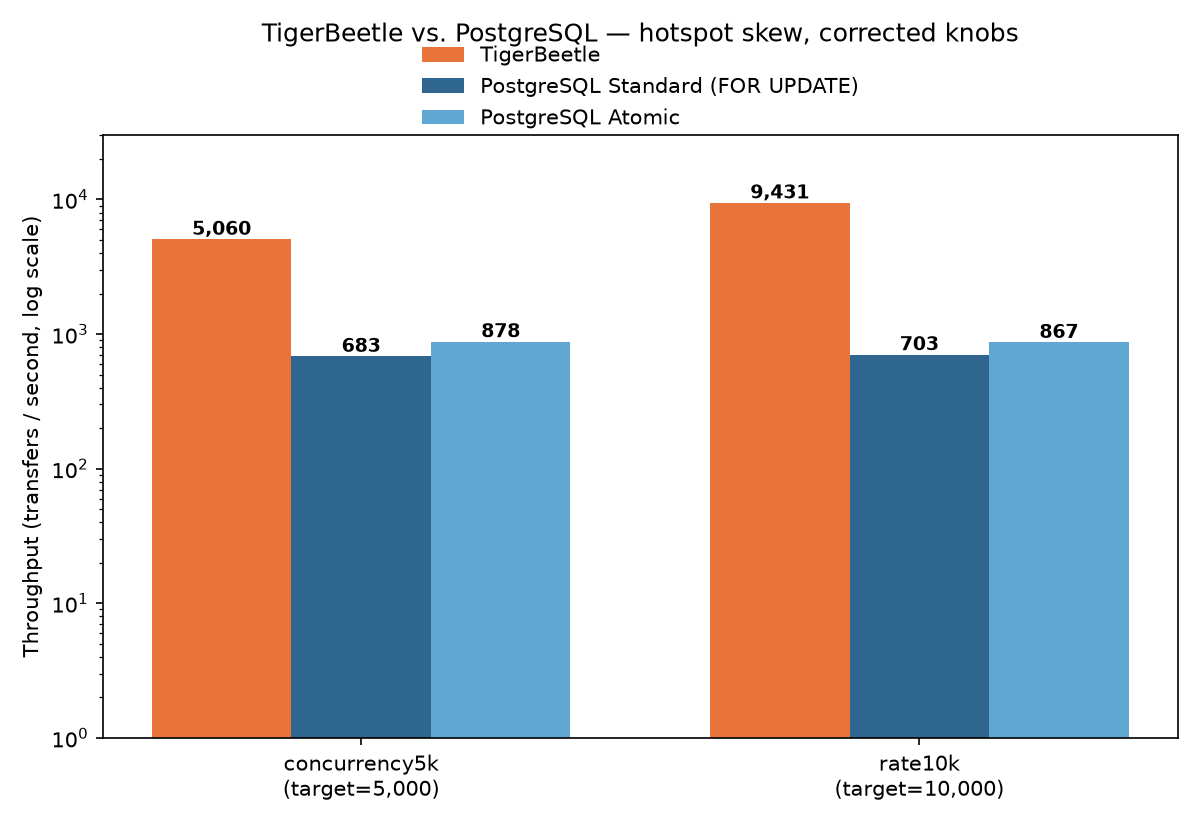
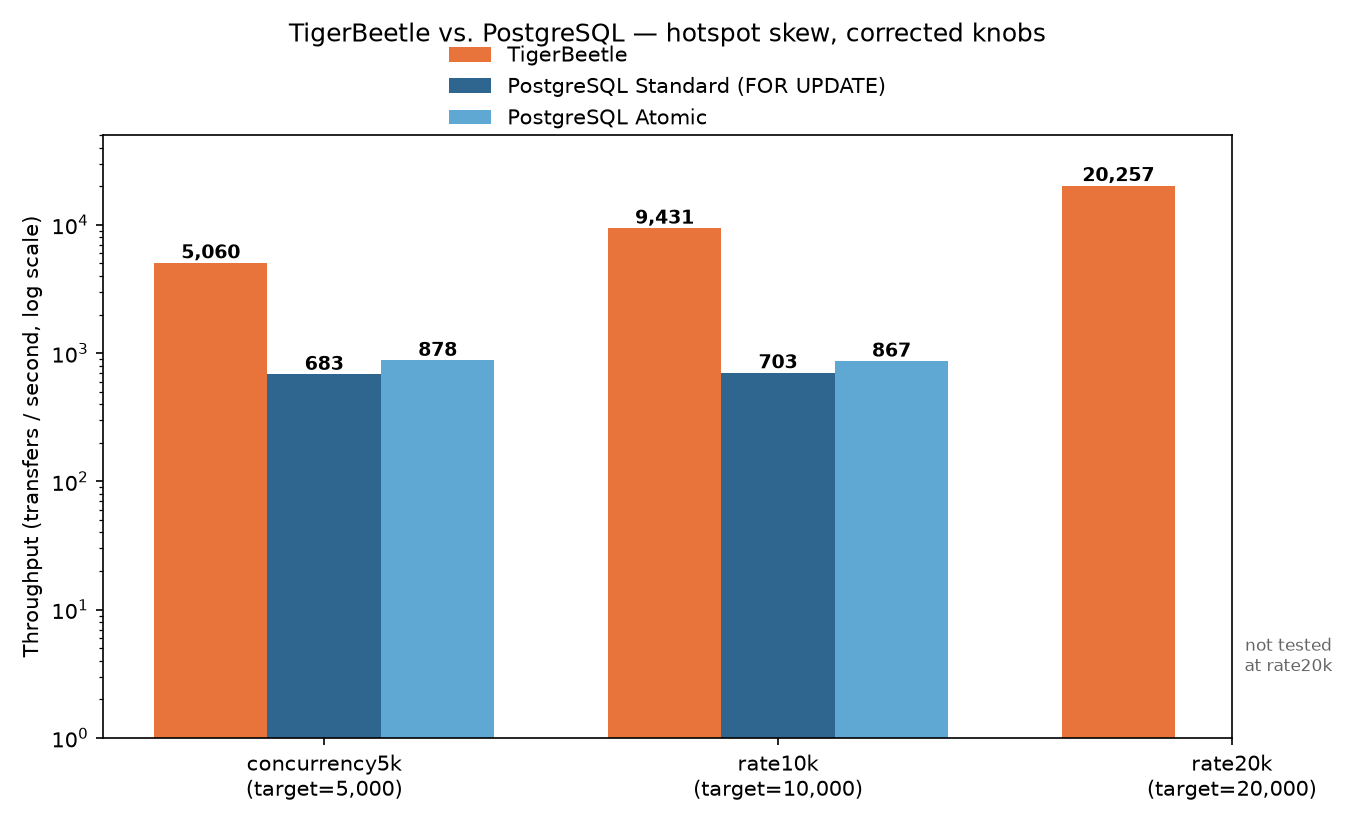
Add rate20k results: TigerBeetle ceiling still not found
Pushes target_rate to 20,000 with max_concurrency raised to 30,000 (real
headroom this time, not just 1:1). Result: 20,257 TPS mean, 0 dropped
transfers, 0% error rate, p99 still sub-second (1,046ms) - TigerBeetle
absorbed essentially the full 2x jump in offered load with zero drops.

Updates hotspot-knob-sweep-results.md with the new test's analysis and raw
results, and article_v2.md to feature rate20k as the headline number
(~23x PostgreSQL's best observed throughput across the whole sweep,
though PostgreSQL wasn't re-tested at this specific rate since rate10k
already showed it doesn't move with target_rate). Regenerated both
corrected-hotspot charts to include the third data point.

diff --git a/article-assets/plot_corrected_hotspot.py b/article-assets/plot_corrected_hotspot.py
@@ -10,18 +10,18 @@ import numpy as np
 OUT_DIR = "article-assets"
 
 # --- Chart 1: throughput, corrected hotspot numbers -------------------------
-groups = ["concurrency5k\n(target=5,000)", "rate10k\n(target=10,000)"]
-tigerbeetle = [5060, 9431]
-pg_standard = [683, 703]
-pg_atomic = [878, 867]
+groups = ["concurrency5k\n(target=5,000)", "rate10k\n(target=10,000)", "rate20k\n(target=20,000)"]
+tigerbeetle = [5060, 9431, 20257]
+pg_standard = [683, 703, None]  # not tested at rate20k
+pg_atomic = [878, 867, None]  # not tested at rate20k
 
 x = np.arange(len(groups))
 width = 0.25
 
-fig, ax = plt.subplots(figsize=(8, 5.5))
+fig, ax = plt.subplots(figsize=(9, 5.5))
 b1 = ax.bar(x - width, tigerbeetle, width, label="TigerBeetle", color="#e8743b")
-b2 = ax.bar(x, pg_standard, width, label="PostgreSQL Standard (FOR UPDATE)", color="#2f6690")
-b3 = ax.bar(x + width, pg_atomic, width, label="PostgreSQL Atomic", color="#5fa8d3")
+b2 = ax.bar(x[:2], pg_standard[:2], width, label="PostgreSQL Standard (FOR UPDATE)", color="#2f6690")
+b3 = ax.bar(x[:2] + width, pg_atomic[:2], width, label="PostgreSQL Atomic", color="#5fa8d3")
 
 ax.set_yscale("log")
 ax.set_ylabel("Throughput (transfers / second, log scale)")
@@ -29,13 +29,16 @@ ax.set_title("TigerBeetle vs. PostgreSQL — hotspot skew, corrected knobs", pad
 ax.set_xticks(x)
 ax.set_xticklabels(groups)
 ax.legend(loc="upper center", bbox_to_anchor=(0.5, 1.18), ncol=1, frameon=False)
-ax.set_ylim(1, 3e4)
+ax.set_ylim(1, 5e4)
 
 for bars in (b1, b2, b3):
     for bar in bars:
         h = bar.get_height()
         ax.annotate(f"{int(h):,}", (bar.get_x() + bar.get_width() / 2, h),
                     ha="center", va="bottom", fontsize=9, fontweight="bold")
+
+ax.annotate("not tested\nat rate20k", (x[2], 1.0), ha="center", va="bottom",
+            fontsize=8, color="#666666", xytext=(x[2] + width / 2, 3))
 
 fig.tight_layout()
 fig.savefig(f"{OUT_DIR}/throughput_corrected_hotspot.png", dpi=150)
@@ -50,13 +53,15 @@ plt.close(fig)
 percentiles = ["p50", "p95", "p99", "p999"]
 c5k = [37, 480, 676, 908]
 r10k = [37, 611, 837, 989]
+r20k = [43, 846, 1046, 1454]
 
 x = np.arange(len(percentiles))
-width = 0.35
+width = 0.25
 
-fig, ax = plt.subplots(figsize=(7, 5))
-b1 = ax.bar(x - width / 2, c5k, width, label="concurrency5k (target=5,000)", color="#e8743b")
-b2 = ax.bar(x + width / 2, r10k, width, label="rate10k (target=10,000)", color="#f4a261")
+fig, ax = plt.subplots(figsize=(8, 5))
+b1 = ax.bar(x - width, c5k, width, label="concurrency5k (target=5,000)", color="#e8743b")
+b2 = ax.bar(x, r10k, width, label="rate10k (target=10,000)", color="#f4a261")
+b3 = ax.bar(x + width, r20k, width, label="rate20k (target=20,000)", color="#f9c784")
 
 ax.set_ylabel("Latency (milliseconds)")
 ax.set_title("TigerBeetle latency under hotspot skew — corrected knobs")
@@ -64,7 +69,7 @@ ax.set_xticks(x)
 ax.set_xticklabels(percentiles)
 ax.legend()
 
-for bars in (b1, b2):
+for bars in (b1, b2, b3):
     for bar in bars:
         h = bar.get_height()
         ax.annotate(f"{int(h)}", (bar.get_x() + bar.get_width() / 2, h),

diff --git a/hotspot-knob-sweep-results.md b/hotspot-knob-sweep-results.md
@@ -22,6 +22,7 @@ Moderate skew (`zipfian_exponent = 1.0`) was not run this round.
 | baseline (prior article) | 5,000 | 1,000 |
 | `concurrency5k` | 5,000 (unchanged) | 5,000 |
 | `rate10k` | 10,000 | 5,000 |
+| `rate20k` (TigerBeetle only) | 20,000 | 30,000 |
 
 ## Results
 
@@ -39,8 +40,12 @@ Moderate skew (`zipfian_exponent = 1.0`) was not run this round.
 | Mean throughput | **9,431 TPS** | 703 TPS | 867 TPS |
 | p50 / p95 / p99 latency | 37 / 611 / 837 ms | 5,000 / 5,000 / 5,000 ms (capped) | 5,000 / 5,000 / 5,000 ms (capped) |
 | Dropped | 598,159 | 8,529,844 | 8,363,650 |
+| **rate20k** (max_concurrency=30000, target_rate=20000, TigerBeetle only) |
+| Mean throughput | **20,257 TPS** | not tested | not tested |
+| p50 / p95 / p99 latency | 43 / 846 / 1,046 ms | - | - |
+| Dropped | **0** | - | - |
 
-Balance verified 3/3 runs in every one of the six tests - no correctness
+Balance verified 3/3 runs in every one of the seven tests - no correctness
 issues in the final numbers above (see "Two infrastructure issues hit along
 the way" for problems that occurred *before* getting to these clean runs).
 
@@ -59,9 +64,25 @@ offered (94%), with p50 latency barely moving (37ms, same as
 `concurrency5k`) and p99 still under a second. `dropped_transfers` is
 nonzero here (598k, ~9% of offered load) - so *this* time the cap is
 plausibly binding again, meaning TigerBeetle's true ceiling under this
-workload is somewhere *above* 9,431 TPS, not yet found. A useful next step
-is a `target_rate=15000`+ test with `max_concurrency` raised further to
-pin down the actual ceiling.
+workload is somewhere *above* 9,431 TPS, not yet found.
+
+`rate20k` follows up on exactly that: target_rate doubled again to 20,000,
+and this time `max_concurrency` was raised generously (30,000, i.e.
+6,000/client against 4,000/client offered - well past 1:1, since
+TigerBeetle's concurrency cap is a pure client-side safety valve with no
+corresponding server-side resource limit, unlike PostgreSQL's connection
+pool, so there's no cost to overprovisioning it). Result: **20,257 TPS
+mean, `dropped_transfers = 0`** - TigerBeetle absorbed essentially the
+entire 20,000 offered rate (101%) with real headroom in the concurrency
+cap this time, not just "not much dropped." Latency did grow somewhat
+(p50 37ms -> 43ms, p99 837ms -> 1,046ms), but stayed low and sub-second at
+every percentile through p99. **TigerBeetle's ceiling under hotspot skew
+still hasn't been found** - it absorbed a 2x jump in offered load with
+zero drops and only a modest latency increase, suggesting there's
+significant headroom left even above 20,000 TPS. The next step to actually
+find the ceiling would be pushing `target_rate` further (40,000+) until
+either drops start appearing again despite a generous cap, or latency
+starts growing non-linearly - whichever comes first.
 
 ## PostgreSQL: raising max_concurrency made things *worse*, not better
 
@@ -369,6 +390,88 @@ Result file: `results/run_20260730_080216/results.json`
     "total_rejected": 2661796,
     "total_failed": 0,
     "total_dropped": 598159,
+    "error_rate": 0.0
+  },
+  "warnings": [],
+  "errors": []
+}
+```
+
+### TigerBeetle, rate20k
+
+Result file: `results/run_20260807_071309/results.json`
+
+```json
+{
+  "config_summary": {
+    "database_type": "TigerBeetle",
+    "test_mode": "fixed_rate",
+    "num_accounts": 100000,
+    "initial_balance": 1000000,
+    "warmup_duration_secs": 120,
+    "test_duration_secs": 300,
+    "num_runs": 3
+  },
+  "runs": [
+    {
+      "run_id": 1,
+      "duration_secs": 422.26971175,
+      "throughput_tps": 20152.93,
+      "latency_p50_us": 43492,
+      "latency_p95_us": 861992,
+      "latency_p99_us": 1029285,
+      "latency_p999_us": 1452928,
+      "completed_transfers": 4131887,
+      "rejected_transfers": 1913992,
+      "failed_transfers": 0,
+      "dropped_transfers": 0,
+      "balance_verified": true
+    },
+    {
+      "run_id": 2,
+      "duration_secs": 423.530890333,
+      "throughput_tps": 20308.69,
+      "latency_p50_us": 43833,
+      "latency_p95_us": 856669,
+      "latency_p99_us": 1112028,
+      "latency_p999_us": 1461202,
+      "completed_transfers": 4170273,
+      "rejected_transfers": 1922334,
+      "failed_transfers": 0,
+      "dropped_transfers": 0,
+      "balance_verified": true
+    },
+    {
+      "run_id": 3,
+      "duration_secs": 423.501136209,
+      "throughput_tps": 20310.763333333332,
+      "latency_p50_us": 42619,
+      "latency_p95_us": 820425,
+      "latency_p99_us": 998019,
+      "latency_p999_us": 1447665,
+      "completed_transfers": 4170094,
+      "rejected_transfers": 1923135,
+      "failed_transfers": 0,
+      "dropped_transfers": 0,
+      "balance_verified": true
+    }
+  ],
+  "aggregate": {
+    "throughput": {
+      "mean": 20257.46111111111,
+      "stddev": 73.91950383297687,
+      "cv": 0.0036490013939818157,
+      "min": 20152.93,
+      "max": 20310.763333333332
+    },
+    "latency_p50": { "mean": 43314.666666666664, "stddev": 511.2301069207703, "cv": 0.011802702092919342, "min": 42619.0, "max": 43833.0 },
+    "latency_p95": { "mean": 846362.0, "stddev": 18468.523835614655, "cv": 0.021821069277229665, "min": 820425.0, "max": 861992.0 },
+    "latency_p99": { "mean": 1046444.0, "stddev": 48099.45585970802, "cv": 0.04596467260523068, "min": 998019.0, "max": 1112028.0 },
+    "latency_p999": { "mean": 1453931.6666666667, "stddev": 5571.84005114608, "cv": 0.0038322571678490714, "min": 1447665.0, "max": 1461202.0 },
+    "total_completed": 12472254,
+    "total_rejected": 5759461,
+    "total_failed": 0,
+    "total_dropped": 0,
     "error_rate": 0.0
   },
   "warnings": [],

diff --git a/article_v2.md b/article_v2.md
@@ -178,6 +178,9 @@ compared to our first pass at this test.
 | **`rate10k`** (target_rate doubled to 10,000, same raised concurrency cap - how far can each system actually go?) |
 | Mean throughput | **9,431 TPS** | 703 TPS | 867 TPS |
 | Dropped requests | 598K (~9% of offered load - TigerBeetle's own ceiling is still higher than this) | 8.5M | 8.4M |
+| **`rate20k`** (target_rate doubled again to 20,000, TigerBeetle only - `rate10k` showed PostgreSQL flat regardless of offered rate, so we focused the next push on finding TigerBeetle's ceiling instead) |
+| Mean throughput | **20,257 TPS** | not tested | not tested |
+| Dropped requests | **0** (this time `max_concurrency` was raised generously enough - 30,000 - that the cap had real headroom, not just "not much dropped") | - | - |
 
 Error rate stayed at 0% and balance verified 3/3 across every one of these
 runs - the differences are entirely about performance, not correctness.
@@ -193,7 +196,7 @@ percentile including the median, but we don't have a precise number beyond
 for it. TigerBeetle's own latency, by contrast, stayed real and
 informative throughout:
 
-![TigerBeetle latency, concurrency5k vs rate10k](article-assets/latency_tigerbeetle_corrected_hotspot.png)
+![TigerBeetle latency, concurrency5k vs rate10k vs rate20k](article-assets/latency_tigerbeetle_corrected_hotspot.png)
 
 ## Headline takeaways
 
@@ -201,15 +204,26 @@ informative throughout:
   originally reported.** At matched offered load (`concurrency5k`),
   TigerBeetle is now **5.8x** PostgreSQL's best mode (atomic) under hotspot
   skew - not the 4.6x we measured before fixing our own concurrency cap.
-  Pushed further (`rate10k`, double the offered load), that gap widens to
-  roughly **10.9x**, because TigerBeetle keeps absorbing more load while
-  PostgreSQL's throughput barely moves.
+  Pushed to `rate10k` (double the offered load), that gap widens to
+  roughly **10.9x**. Against PostgreSQL's best observed number across this
+  entire investigation (878 TPS), TigerBeetle's `rate20k` result (20,257
+  TPS) is **~23x** higher - though we didn't re-test PostgreSQL at that
+  offered rate; `rate10k` already showed its throughput doesn't move with
+  `target_rate`, so we chose to spend that round of testing pinning down
+  TigerBeetle's ceiling instead.
+- **We still haven't found where TigerBeetle tops out.** Each time we
+  doubled the offered rate (5k -> 10k -> 20k) with `max_concurrency` raised
+  along with it, TigerBeetle kept absorbing essentially all of it - at
+  `rate20k`, `dropped_transfers` was exactly **zero**, meaning the
+  concurrency cap had real headroom this time, not just "not much
+  dropped." Latency grew, but stayed sub-second at p99 (1,046ms) even at
+  20,257 TPS. TigerBeetle's real ceiling under hotspot skew is still
+  somewhere above 20,000 TPS.
 - **The corrected numbers are more trustworthy, not just bigger.** Our
   original hotspot numbers for TigerBeetle were an artifact of an
   unmeasured concurrency cap, not TigerBeetle's real capacity. Once we
   tracked `dropped_transfers` and raised the cap, TigerBeetle's own ceiling
-  turned out to be *higher* than we'd been reporting - and even at 10,000
-  requests/sec offered, we still hadn't found where it tops out.
+  turned out to be *much higher* than we'd been reporting.
 - **PostgreSQL's ceiling under hotspot skew is architectural, not a tuning
   gap.** We tried raising `max_concurrency`, raising `target_rate`, and
   separately raising `connection_pool_size` (see below) - none of them
@@ -218,8 +232,8 @@ informative throughout:
   PostgreSQL's client-side knobs won't get you out of this regime; the
   bottleneck is row-lock contention on the hot accounts themselves.
 - **Correctness held everywhere**, across every test in this article and
-  the two rounds of testing that produced it. The differences are only in
-  performance.
+  the several rounds of testing that produced it. The differences are only
+  in performance.
 
 ## What we tried on PostgreSQL's side
 
@@ -253,9 +267,11 @@ several different tuning knobs all failed to move.
 
 A few natural follow-ups we haven't run yet: re-testing moderate skew with
 the corrected concurrency knobs (we'd expect a similar, if smaller, upward
-correction for TigerBeetle there); pushing `target_rate` well past 10,000 to
-actually find TigerBeetle's ceiling under hotspot skew; and testing
-`synchronous_commit` levels for PostgreSQL, since each row lock is currently
-held for the duration of a full cross-zone replication round trip - shrinking
-that hold time is the one lever in this whole investigation that would
-directly target the mechanism we now believe is the actual bottleneck.
+correction for TigerBeetle there); pushing `target_rate` well past 20,000
+(40,000+, with `max_concurrency` raised proportionally) to actually find
+TigerBeetle's ceiling under hotspot skew, since it hasn't shown any sign of
+slowing down yet; and testing `synchronous_commit` levels for PostgreSQL,
+since each row lock is currently held for the duration of a full cross-zone
+replication round trip - shrinking that hold time is the one lever in this
+whole investigation that would directly target the mechanism we now believe
+is the actual bottleneck.
